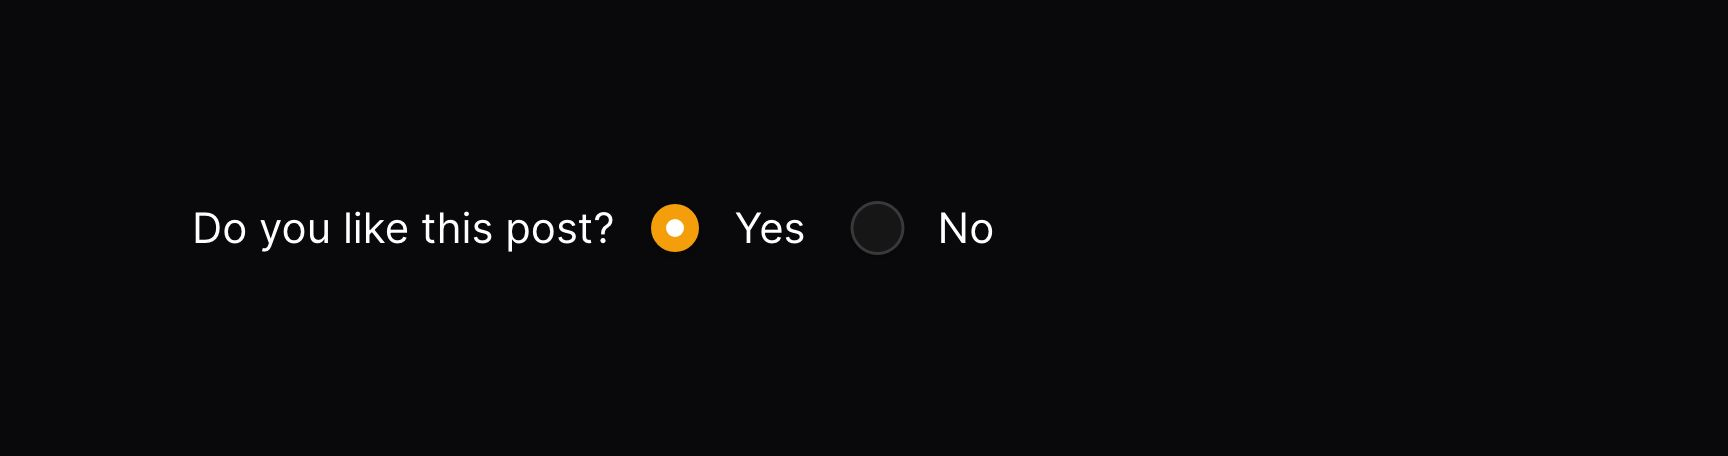
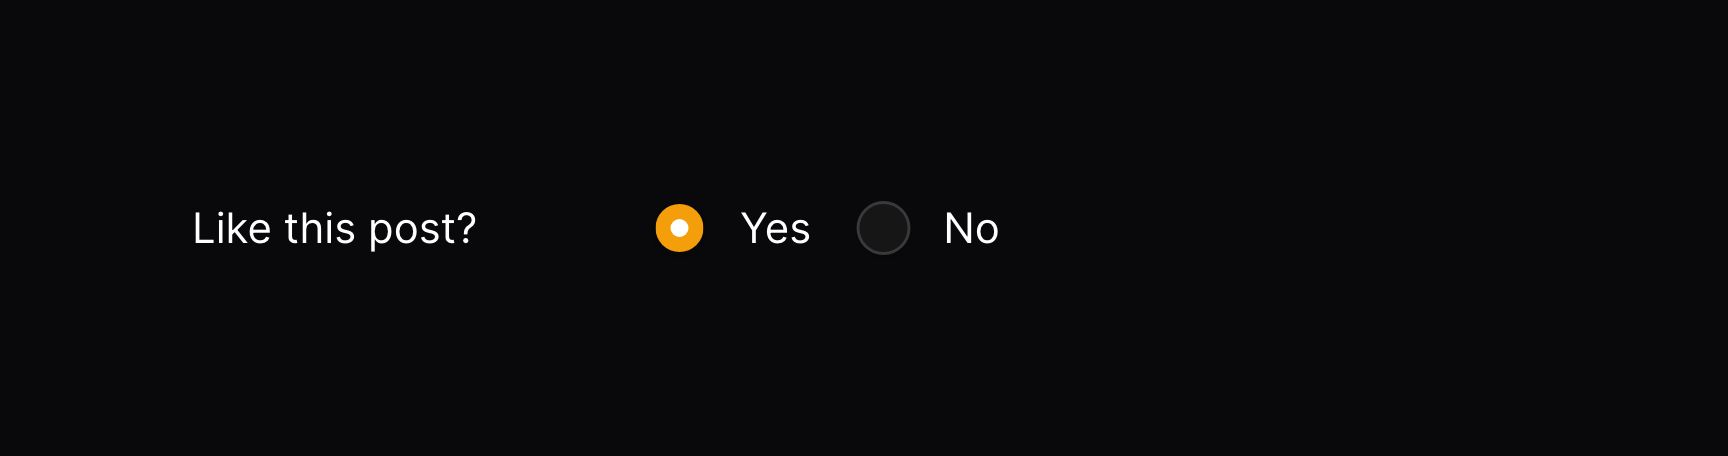
screenshots of new radio inline

Changed region(s): [[0.0938, 0.4298, 0.5938, 0.5526]]

diff --git a/docs-assets/screenshots/schema.js b/docs-assets/screenshots/schema.js
@@ -697,6 +697,15 @@ export default {
             deviceScaleFactor: 3,
         },
     },
+    'forms/fields/radio/inline-under-label': {
+        url: 'forms/fields',
+        selector: '#inlineRadioUnderLabel',
+        viewport: {
+            width: 1920,
+            height: 640,
+            deviceScaleFactor: 3,
+        },
+    },
     'forms/fields/radio/disabled-option': {
         url: 'forms/fields',
         selector: '#disabledOptionRadio',

diff --git a/docs-assets/app/app/Livewire/Forms/FieldsDemo.php b/docs-assets/app/app/Livewire/Forms/FieldsDemo.php
@@ -530,7 +530,7 @@ class FieldsDemo extends Component implements HasForms
                     ])
                     ->schema([
                         Radio::make('booleanRadio')
-                            ->label('Do you like this post?')
+                            ->label('Like this post?')
                             ->boolean()
                             ->default(true),
                     ]),
@@ -541,9 +541,22 @@ class FieldsDemo extends Component implements HasForms
                     ])
                     ->schema([
                         Radio::make('inlineRadio')
-                            ->label('Do you like this post?')
+                            ->label('Like this post?')
                             ->boolean()
                             ->inline()
+                            ->default(true),
+                    ]),
+                Group::make()
+                    ->id('inlineRadioUnderLabel')
+                    ->extraAttributes([
+                        'class' => 'p-16 max-w-xl',
+                    ])
+                    ->schema([
+                        Radio::make('inlineRadioUnderLabel')
+                            ->label('Like this post?')
+                            ->boolean()
+                            ->inline()
+                            ->inlineLabel(false)
                             ->default(true),
                     ]),
                 Group::make()

diff --git a/packages/forms/docs/03-fields/07-radio.md b/packages/forms/docs/03-fields/07-radio.md
@@ -50,7 +50,7 @@ If you want a simple boolean radio button group, with "Yes" and "No" options, yo
 
 ```php
 Radio::make('feedback')
-    ->label('Do you like this post?')
+    ->label('Like this post??')
     ->boolean()
 ```
 
@@ -62,12 +62,26 @@ You may wish to display the options `inline()` with the label instead of below i
 
 ```php
 Radio::make('feedback')
-    ->label('Do you like this post?')
+    ->label('Like this post??')
     ->boolean()
     ->inline()
 ```
 
 <AutoScreenshot name="forms/fields/radio/inline" alt="Inline radio" version="3.x" />
+
+## Positioning the options inline with each other but below the label
+
+You may wish to display the options `inline()` with each other but below the label:
+
+```php
+Radio::make('feedback')
+    ->label('Like this post??')
+    ->boolean()
+    ->inline()
+    ->inlineLabel(false)
+```
+
+<AutoScreenshot name="forms/fields/radio/inline-under-label" alt="Inline radio under label" version="3.x" />
 
 ## Disabling specific options
 
